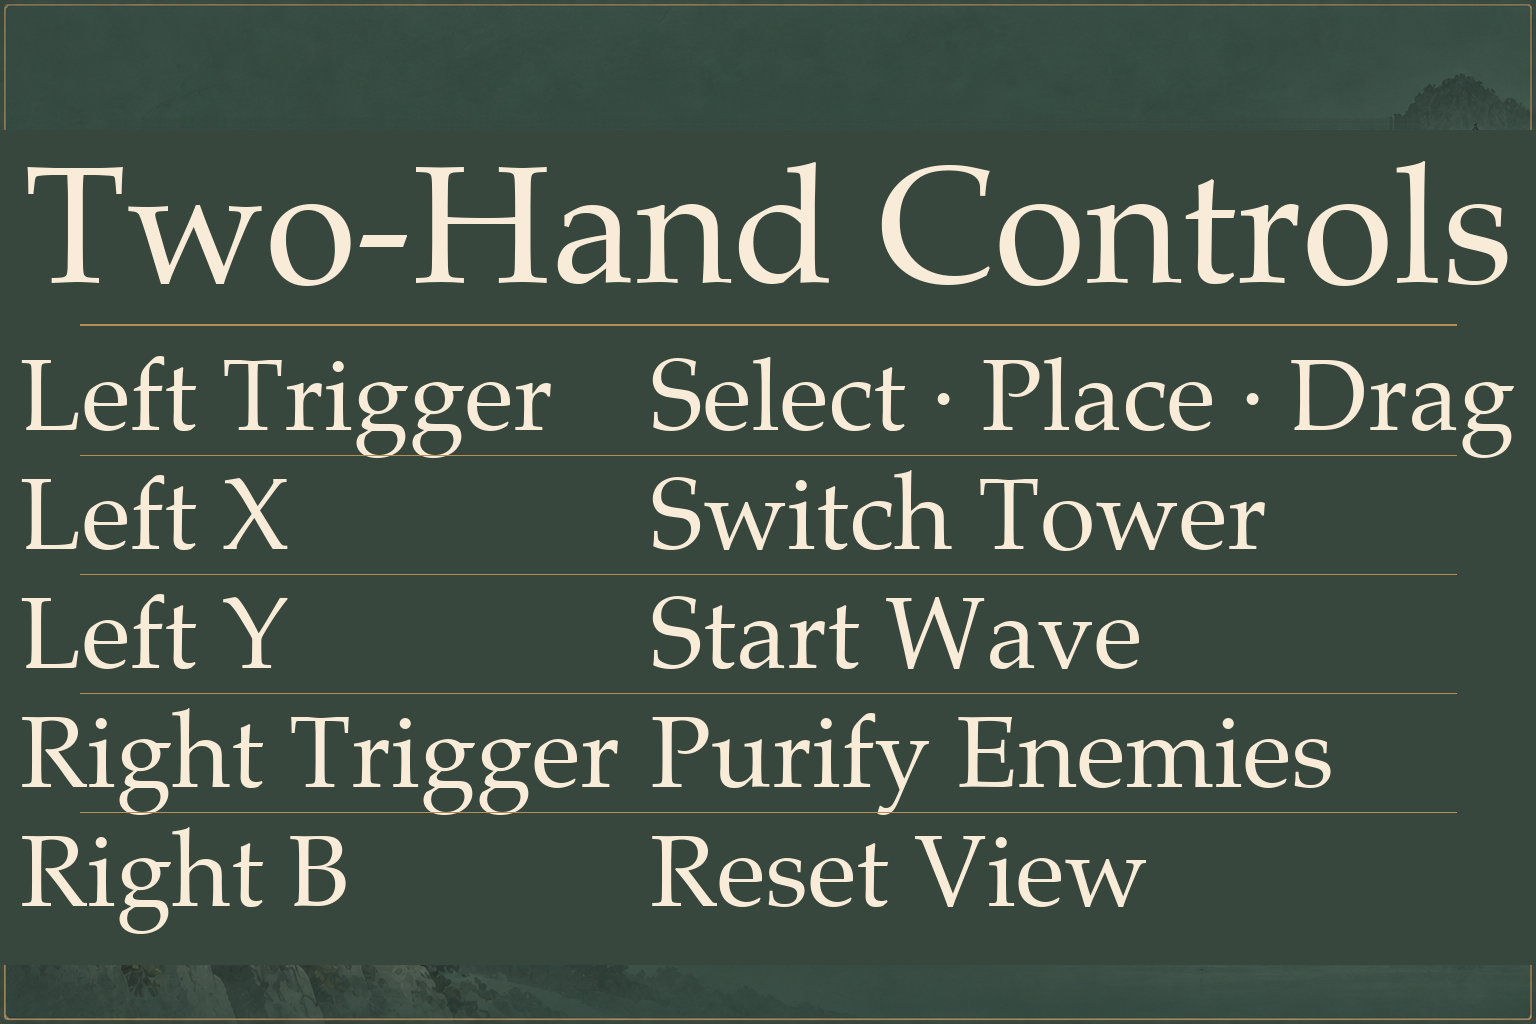
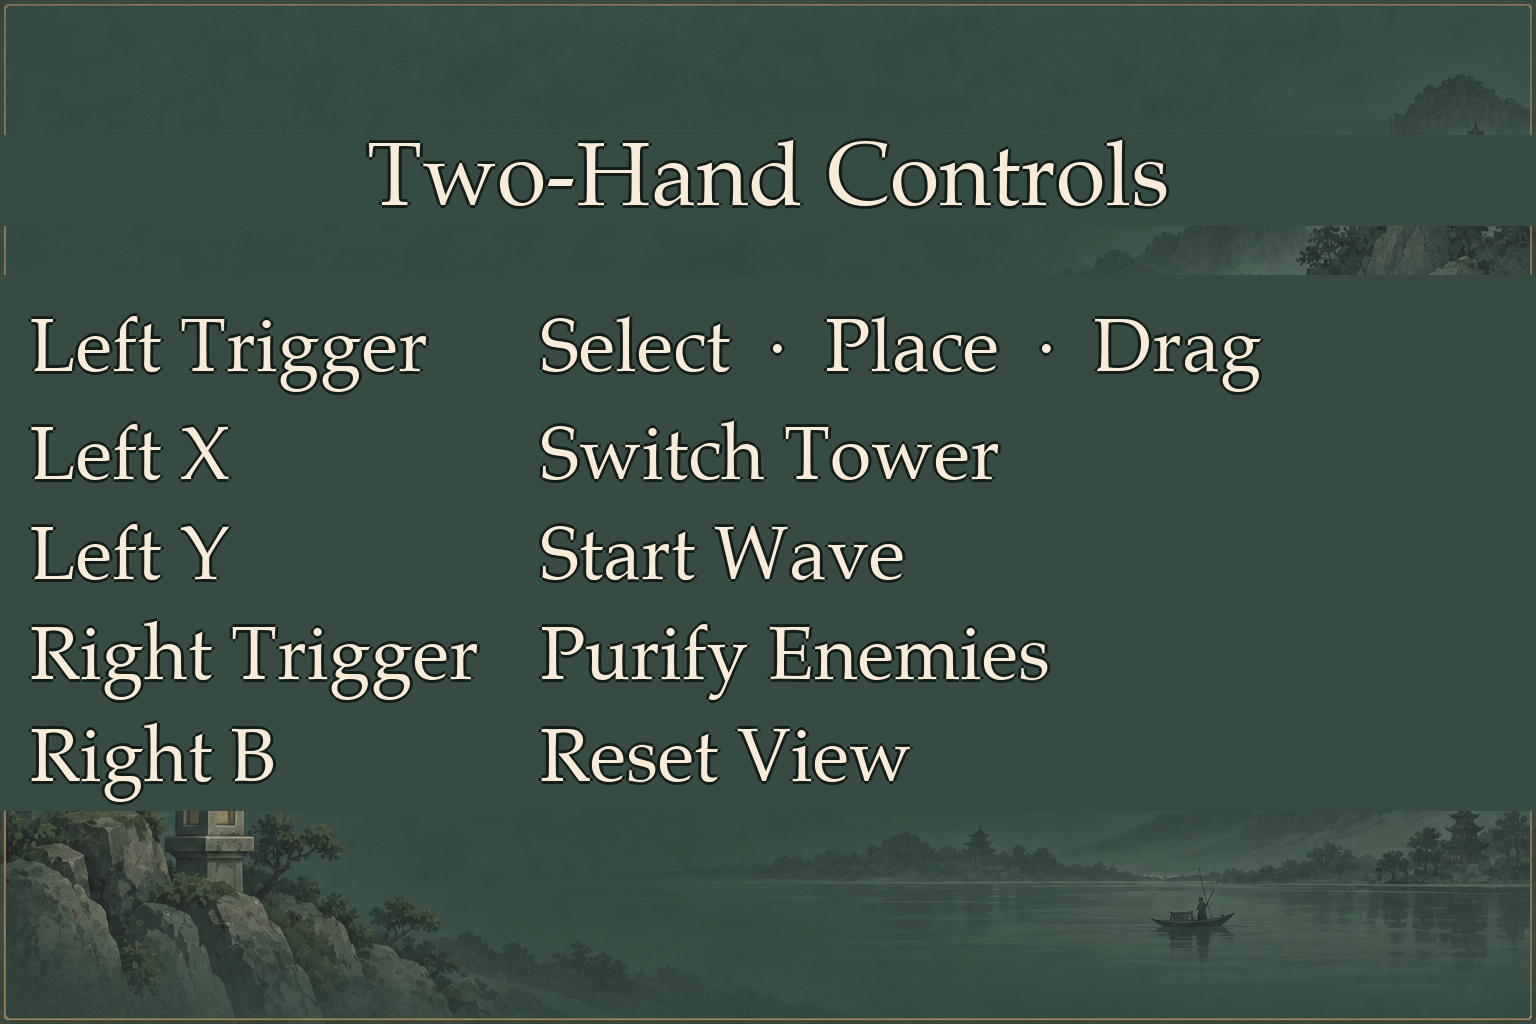
fix(ui): 修复面板比例变形并重排 GeneratedV5 六块面板文字
- SpatialTowerDefenseGame.cs：将 4 块面板改为等比放大：
  Status 0.90×0.30 → 1.20×0.40m (×1.333，比例3:1)
  Briefing 0.50×0.75 → 0.70×1.05m (×1.40，比例0.667:1)
  Guide 0.72×0.48 → 0.96×0.64m (×1.333，比例1.5:1)
  Stats 0.66×0.33 → 0.88×0.44m (×1.333，比例2:1)
- 数字槽位坐标和高度按同比例缩放
- 六块 PNG 从 en-v2 底图出发重新排版：
  保留水墨底纹、铜线分隔线和插图；清除旧文字区域并用更大字号重绘
  正确文本：Ignorance Beast → "High HP and armor"；Lotus Lamp → "Slowing Control"

diff --git a/Assets/SpatialTowerDefense/Runtime/SpatialTowerDefenseGame.cs b/Assets/SpatialTowerDefense/Runtime/SpatialTowerDefenseGame.cs
@@ -1767,31 +1767,26 @@ namespace PicoTowerDefense
         private void BuildStatusDisplay()
         {
             _statusHudRoot = PanelRoot("World Status HUD", new Vector3(0f, 1.90f, 0.26f));
-            // Panel enlarged from 0.90x0.30 → 0.90x0.50m so baked column labels meet
-            // VR spec C body minimum (45.4mm cap height at 2.67m viewing distance).
-            GeneratedLotusPanel.Create(_statusHudRoot, "Generated Status HUD", "Status", new Vector2(0.90f, 0.50f), Vector3.zero);
-            // Digit heights enlarged from 0.055/0.050 → 0.070m: cap ≈ 47.6mm ≥ 45.4mm body min.
-            _goldDigits = GeneratedLotusPanel.Digits(_statusHudRoot, new Vector3(-0.30f, -0.042f, -0.003f), 0.070f);
-            _lifeDigits = GeneratedLotusPanel.Digits(_statusHudRoot, new Vector3(0f, -0.042f, -0.003f), 0.070f);
-            _waveDigits = GeneratedLotusPanel.Digits(_statusHudRoot, new Vector3(0.30f, -0.042f, -0.003f), 0.070f);
+            // 等比放大 ×1.333：0.90×0.30 → 1.20×0.40m，比例 3:1 与图片 2172×724 一致。
+            GeneratedLotusPanel.Create(_statusHudRoot, "Generated Status HUD", "Status", new Vector2(1.20f, 0.40f), Vector3.zero);
+            // 数字槽按 ×1.333 同比移动：X ±0.30→±0.40，Y -0.042→-0.056，高度相应放大。
+            _goldDigits = GeneratedLotusPanel.Digits(_statusHudRoot, new Vector3(-0.40f, -0.056f, -0.003f), 0.073f);
+            _lifeDigits = GeneratedLotusPanel.Digits(_statusHudRoot, new Vector3(0f, -0.056f, -0.003f), 0.067f);
+            _waveDigits = GeneratedLotusPanel.Digits(_statusHudRoot, new Vector3(0.40f, -0.056f, -0.003f), 0.067f);
         }
 
         private void BuildWaveBriefingDisplay()
         {
             _waveBriefingRoot = PanelRoot("Next Wave Enemy Skill Briefing", new Vector3(-1.55f, 1.80f, -0.10f));
-            // Panel enlarged from 0.50x0.75 → 0.60x1.40m so baked enemy names meet
-            // VR spec C body minimum (47.4mm cap height at 2.79m viewing distance).
-            // Row positions (rows[] fractions) unchanged; only the scale factor updates.
-            GeneratedLotusPanel.Create(_waveBriefingRoot, "Generated Enemy Briefing", "Briefing", new Vector2(0.60f, 1.40f), Vector3.zero);
-            // Wave digit: height 0.028→0.072m (cap ≈ 49mm ≥ 47.4mm body min);
-            // Y position scaled proportionally: 0.239 × (1.40/0.75) ≈ 0.446m.
-            _briefingWaveDigits = GeneratedLotusPanel.Digits(_waveBriefingRoot, new Vector3(0f, 0.446f, -0.003f), 0.072f);
+            // 等比放大 ×1.40：0.50×0.75 → 0.70×1.05m，比例 0.667:1 与图片 1024×1536 一致。
+            GeneratedLotusPanel.Create(_waveBriefingRoot, "Generated Enemy Briefing", "Briefing", new Vector2(0.70f, 1.05f), Vector3.zero);
+            // 波次数字：Y 按 ×1.40 缩放 0.239→0.335，高度 0.028→0.039。
+            _briefingWaveDigits = GeneratedLotusPanel.Digits(_waveBriefingRoot, new Vector3(0f, 0.335f, -0.003f), 0.039f);
             float[] rows = { 0.275f, 0.387f, 0.498f, 0.610f, 0.723f, 0.839f };
             for (int i = 0; i < 6; i++)
-                // Enemy count digit: height 0.035→0.052m (cap ≈ 35.4mm ≥ 33.5mm secondary min);
-                // Y multiplier updated from 0.75 → 1.40 to match enlarged panel height.
+                // 敌人计数：X ×1.40 0.1175→0.1645，Y 乘数 0.75→1.05，高度 0.035→0.049。
                 _enemyCountDigits[i] = GeneratedLotusPanel.Digits(_waveBriefingRoot,
-                    new Vector3(0.1175f, (0.5f - rows[i]) * 1.40f, -0.003f), 0.052f, 3);
+                    new Vector3(0.1645f, (0.5f - rows[i]) * 1.05f, -0.003f), 0.049f, 3);
         }
 
         private void BuildInteractionGuide()
@@ -1800,7 +1795,8 @@ namespace PicoTowerDefense
             // The side panel therefore comes both inward and forward as the
             // viewer sees it, matching its camera-facing billboard normal.
             _interactionGuideRoot = PanelRoot("Two Hand World Interaction Guide", InteractionGuidePositionTowardViewer());
-            GeneratedLotusPanel.Create(_interactionGuideRoot, "Generated Controller Guide", "Guide", new Vector2(0.72f, 0.55f), Vector3.zero);
+            // 等比放大 ×1.333：0.72×0.48 → 0.96×0.64m，比例 1.5:1 与图片 1536×1024 一致。
+            GeneratedLotusPanel.Create(_interactionGuideRoot, "Generated Controller Guide", "Guide", new Vector2(0.96f, 0.64f), Vector3.zero);
         }
 
         private static Vector3 InteractionGuidePositionTowardViewer()
@@ -1921,11 +1917,13 @@ namespace PicoTowerDefense
         private void BuildTowerHoverDisplay()
         {
             _towerInfoRoot = PanelRoot("Tower Hover Information Panel", Vector3.zero);
-            GeneratedLotusPanel.Create(_towerInfoRoot, "Generated Tower Detail", "Stats", new Vector2(0.66f, 0.33f), Vector3.zero);
+            // 等比放大 ×1.333：0.66×0.33 → 0.88×0.44m，比例 2:1 与图片 1774×887 一致。
+            GeneratedLotusPanel.Create(_towerInfoRoot, "Generated Tower Detail", "Stats", new Vector2(0.88f, 0.44f), Vector3.zero);
             float[] columns = { 0.15f, 0.38f, 0.61f, 0.84f };
             for (int i = 0; i < 4; i++)
+                // X 乘数 0.66→0.88，Y -0.033→-0.044，高度 0.050→0.056。
                 _towerDigits[i] = GeneratedLotusPanel.Digits(_towerInfoRoot,
-                    new Vector3((columns[i] - 0.5f) * 0.66f, -0.033f, -0.003f), 0.050f, 5);
+                    new Vector3((columns[i] - 0.5f) * 0.88f, -0.044f, -0.003f), 0.056f, 5);
             _towerInfoRoot.gameObject.SetActive(false);
         }
 
